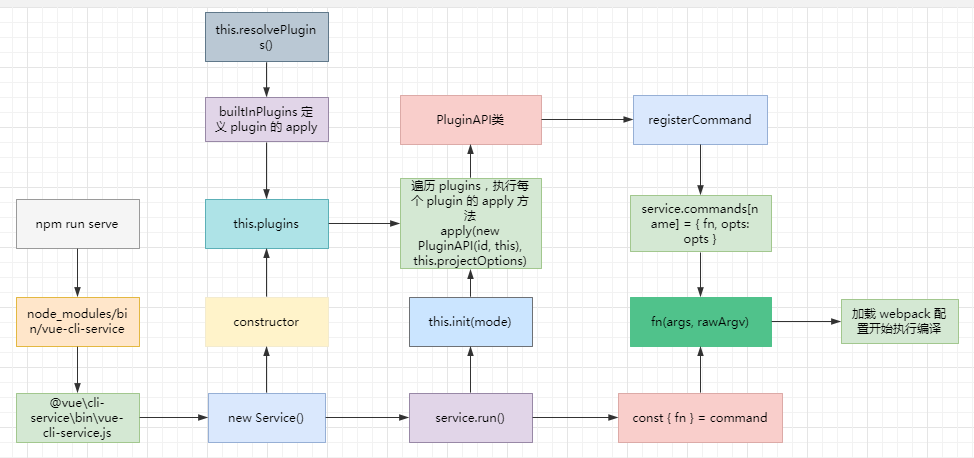
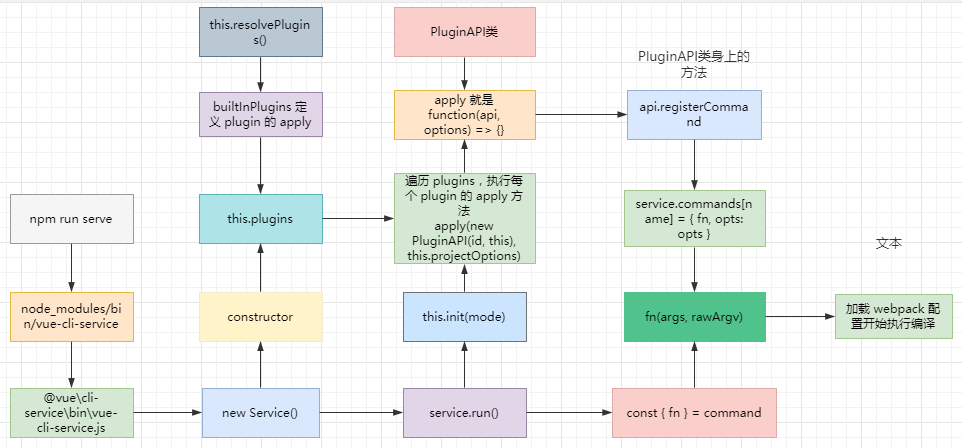
vue cli执行流程

diff --git a/vue-cli/packages/@vue/cli-service/lib/commands/serve.js b/vue-cli/packages/@vue/cli-service/lib/commands/serve.js
@@ -30,6 +30,7 @@ module.exports = (api, options) => {
       '--skip-plugins': `comma-separated list of plugin names to skip for this run`
     }
   }, async function serve (args) {
+    // 开始执行开发环境编译
     info('Starting development server...')
 
     // although this is primarily a dev server, it is possible that we
@@ -39,8 +40,12 @@ module.exports = (api, options) => {
 
     const url = require('url')
     const { chalk } = require('@vue/cli-shared-utils')
+
+    // 引入 webpack
     const webpack = require('webpack')
+    // 引入 webpack-dev-server
     const WebpackDevServer = require('webpack-dev-server')
+
     const portfinder = require('portfinder')
     const prepareURLs = require('../util/prepareURLs')
     const prepareProxy = require('../util/prepareProxy')
@@ -72,10 +77,10 @@ module.exports = (api, options) => {
       }
     })
 
-    // resolve webpack config
+    // 通过 api.resolveWebpackConfig 函数加载 webpack 配置
     const webpackConfig = api.resolveWebpackConfig()
 
-    // check for common config errors
+    // 对 webpack 配置进行校验
     validateWebpackConfig(webpackConfig, api, options)
 
     // load user devServer options with higher priority than devServer
@@ -160,7 +165,7 @@ module.exports = (api, options) => {
       addDevClientToEntry(webpackConfig, devClients)
     }
 
-    // create compiler
+    // 调用 webpack 函数返回 compiler
     const compiler = webpack(webpackConfig)
 
     // handle compiler error
@@ -169,7 +174,7 @@ module.exports = (api, options) => {
       process.exit(1)
     })
 
-    // create server
+    // new WebpackDevServer，将 compiler 传进去，并且传入一些 webpack-dev-server 相关的参数
     const server = new WebpackDevServer(compiler, Object.assign({
       logLevel: 'silent',
       clientLogLevel: 'silent',

diff --git a/vue-cli/packages/@vue/cli-service/lib/Service.js b/vue-cli/packages/@vue/cli-service/lib/Service.js
@@ -85,10 +85,13 @@ module.exports = class Service {
       apply(new PluginAPI(id, this), this.projectOptions)
     })
 
-    // apply webpack configs from project config file
+    // vue.config.js 中有 chainWebpack，可以通过 chainWebpack 进行链式操作
+    // chainWebpack 的链式操作是基于 webpack-chain 这个库
     if (this.projectOptions.chainWebpack) {
       this.webpackChainFns.push(this.projectOptions.chainWebpack)
     }
+    // vue.config.js 中有 configureWebpack
+    // configureWebpack 对象将会被 webpack-merge 合并入最终的 webpack 配置
     if (this.projectOptions.configureWebpack) {
       this.webpackRawConfigFns.push(this.projectOptions.configureWebpack)
     }
@@ -158,11 +161,13 @@ module.exports = class Service {
     // 定义了一些内置的插件，里面都是一个个文件路径
     // 遍历这个数组，执行 map 方法
     const builtInPlugins = [
+      // 这些是执行命令相关的
       './commands/serve',
       './commands/build',
       './commands/inspect',
       './commands/help',
       // config plugins are order sensitive
+      // 这些是 webpack 基础配置相关的
       './config/base',
       './config/css',
       './config/prod',

diff --git a/README.md b/README.md
@@ -4,6 +4,12 @@
 
 
 
+- [ ] vue cli 源码及相关配置
+  - [x] vue cli 启动到加载配置流程
+  - [ ] vue cli 默认使用了哪些 webpack 配置，做了哪些优化
+
+
+
 ## 准备工作
 
 1. 将 vue-cli 源码下载下来
@@ -16,6 +22,10 @@ vue-cli-config
 ├── vue-app     // vue create vue-app 创建的项目
 └── vue-cli     // vue-cli 源码
 ```
+
+
+
+**先以 npm run serve 为例，理解了 npm run serve 的执行流程，npm run build 也差不多**
 
 
 
@@ -186,7 +196,7 @@ class Service {
 - 遍历 vue cli 的 plugins，执行插件的 apply 方法
 - ...
 
-这里面最重要的异步就是：遍历 vue cli 的插件，执行插件的 apply 方法。看看 vue cli 插件是怎么来的：
+这里面最重要的异步就是：遍历 vue cli 的插件，执行插件的 apply 方法。看看 plugins 是怎么来的：
 
 ```js
 class Service {
@@ -206,11 +216,12 @@ class Service {
         // 定义了一些内置的插件，里面都是一个个文件路径
         // 遍历这个数组，执行 map 方法
         const builtInPlugins = [
+          // 这些是执行命令相关的
           './commands/serve',
           './commands/build',
           './commands/inspect',
           './commands/help',
-          // config plugins are order sensitive
+          // 这些是 webpack 基础配置相关的
           './config/base',
           './config/css',
           './config/prod',
@@ -268,7 +279,9 @@ class Service {
 }
 ```
 
-plugins 通过 resolvePlugins 函数生成，最终返回的类似：
+plugins 通过 resolvePlugins 函数生成
+
+resolvePlugins 最终返回的类似：
 
 ```js
 plugins = [
@@ -285,7 +298,28 @@ plugins = [
 
 
 
-来看看 `@vue\cli-service\lib\commands\serve.js` 这个文件：
+**注意： builtInPlugins 中除了定义了执行命令相关的 plugin，还定义了配置相关的 plugin**, config 下面的就是 webpack 的初始配置，或者说 vue cli 的默认配置。也就是说，在 vue cli 中，配置都是通过插件集成
+
+```js
+const builtInPlugins = [
+    // 这些是执行命令相关的
+    './commands/serve',
+    './commands/build',
+    './commands/inspect',
+    './commands/help',
+    // 这些是 webpack 基础配置相关的
+    './config/base',
+    './config/css',
+    './config/prod',
+    './config/app'
+].map(idToPlugin)
+```
+
+可以进到文件 `@vue\cli-service\lib\config\base.js`下面看，里面就是定义了一堆 vue 的初始 webpack 配置
+
+
+
+接下来看看 `@vue\cli-service\lib\commands\serve.js` 这个文件：
 
 ```js
 module.exports = (api, options) => {
@@ -317,7 +351,7 @@ this.plugins.forEach(({ id, apply }) => {
 })
 ```
 
-api 是所以 api.registerCommand 实际上执行的就是 new PluginAPI(id, this) 上的 registerCommand 方法，这个 new PluginAPI(id, this) 传进去两个参数，一个是 id（built-in: commands/serve），一个是 this（当前 service）
+api 是通过 new PluginAPI(id, this) 得到的实例，所以 api.registerCommand 实际上执行的就是 new PluginAPI(id, this) 上的 registerCommand 方法，这个 new PluginAPI(id, this) 传进去两个参数，一个是 id（built-in: commands/serve），一个是 this（当前 service）
 
 
 
@@ -356,5 +390,82 @@ class PluginAPI {
 
 
 
-## vue cli 加载配置
+## vue cli 加载配置进行编译
 
+经过上面知道，执行 fn(args, rawArgv) 开始加载 webpack 配置，而这个 fn 函数就是执行 api.registerCommand 的第三个参数，而 api 是通过 new PluginAPI(id, this) 得到的实例
+
+```js
+module.exports = (api, options) => {
+    // 执行 api.registerCommand 注册 Command
+     api.registerCommand(
+        'serve',
+        {
+        description: 'start development server',
+    	usage: 'vue-cli-service serve [options] [entry]',
+        options: {...}
+    	},
+        async function serve (args) {
+           // 开始执行开发环境编译
+           info('Starting development server...')
+         
+           // ...
+           // 引入 webpack
+           const webpack = require('webpack')
+           // 引入 webpack-dev-server
+           const WebpackDevServer = require('webpack-dev-server')
+           
+           // ...
+           // 通过 api.resolveWebpackConfig 函数加载 webpack 配置
+           const webpackConfig = api.resolveWebpackConfig()
+           
+           // 对 webpack 配置进行校验
+           validateWebpackConfig(webpackConfig, api, options)
+         
+           // ...
+           // 调用 webpack 函数返回 compiler
+           const compiler = webpack(webpackConfig)
+           
+           // new WebpackDevServer，将 compiler 传进去，并且传入一些 webpack-dev-server 相关的参数
+           const server = new WebpackDevServer(compiler, Object.assign({...}))
+        }
+    )
+}
+```
+
+这个 fn 函数做的大致就是：
+
+- 引入 webpack、webpack-dev-server
+- 通过 api.resolveWebpackConfig 函数加载 webpack 配置
+- 调用 webpack 函数返回 compiler
+- new WebpackDevServer，将 compiler 传进去
+
+这基本就实现了开发环境的 webpack-dev-serve
+
+
+
+这只是粗略地看了一下加载配置的过程，其实 vue.config.js 中还允许：
+
+```js
+// vue.config.js
+
+module.exports = {
+  configureWebpack: {
+    plugins: [
+      new MyAwesomeWebpackPlugin()
+    ]
+  },
+  chainWebpack: config => {
+    config.module
+      .rule('vue')
+      .use('vue-loader')
+        .tap(options => {
+          // 修改它的选项...
+          return options
+        })
+  }
+}
+```
+
+
+
+**总结：**vue cli 的封装性比较高，包括 npm run serve/build 还有默认的基础配置都是通过 plugin 的形式集成到 vue cli 中，同时，vue cli 还开放出去了 plugin，那么别人也可以写 vue cli 插件，将功能集成到 vue cli。比如：vue-router、vuex、element-plus，都可以通过 vue add xxx 的形式添加进 vue 项目，这就是依赖于 vue cli 开放的插件机制。
